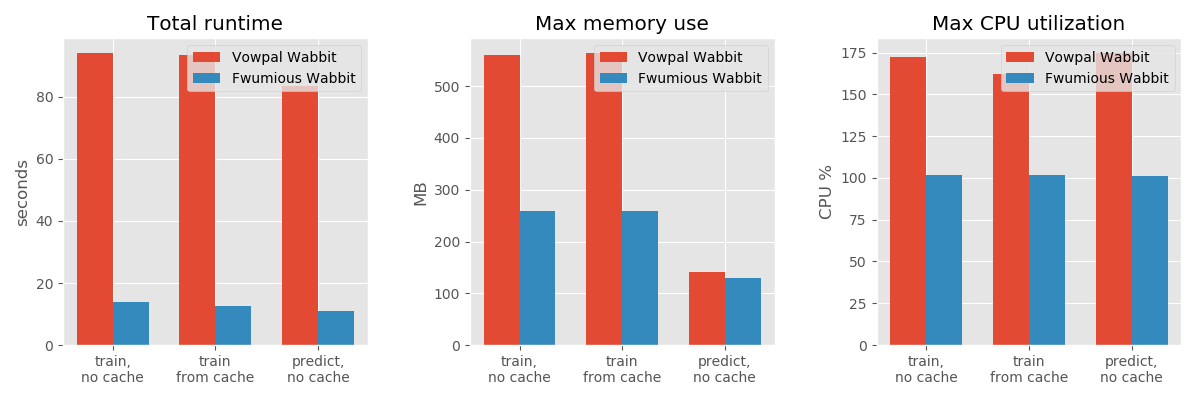
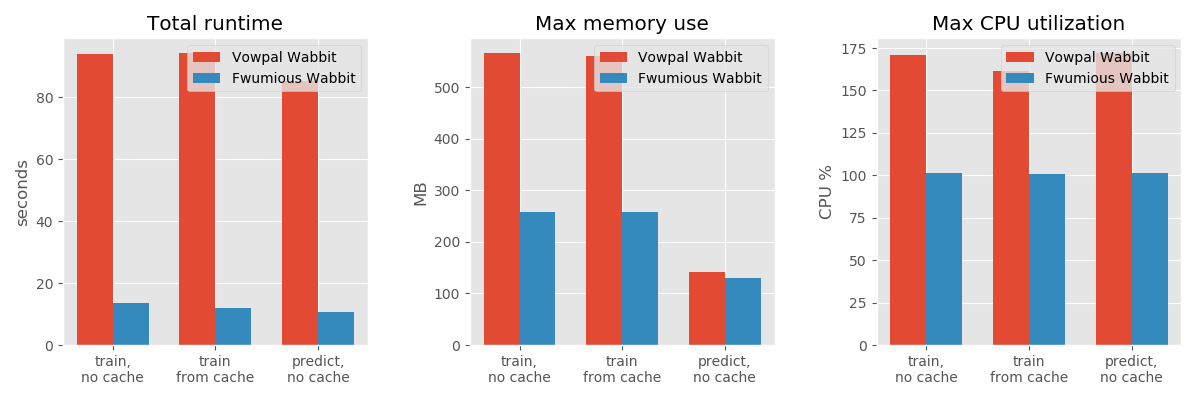
bumping version & benchmark info

diff --git a/src/version.rs b/src/version.rs
@@ -1,1 +1,1 @@
-pub static LATEST: &str = "0.5";
+pub static LATEST: &str = "0.6";

diff --git a/BENCHMARK.md b/BENCHMARK.md
@@ -14,12 +14,12 @@ here are the results for 3 runs for each scenario, taking mean values:
 ![benchmark results](benchmark_results.png)
 Scenario|Runtime (seconds)|Memory (MB)|CPU %
 ----|----:|----:|----:
-vw train, no cache|94.15 | 560 | 172.27
-fw train, no cache|13.75 | 258 | 101.47
-vw train, using cache|93.64 | 564 | 161.97
-fw train, using cache|12.59 | 258 | 101.93
-vw predict, no cache|83.57 | 141 | 174.77
-fw predict, no cache|10.92 | 130 | 100.93
+vw train, no cache|94.09 | 566 | 171.00
+fw train, no cache|13.58 | 258 | 101.47
+vw train, using cache|94.33 | 561 | 161.30
+fw train, using cache|12.07 | 258 | 100.83
+vw predict, no cache|85.30 | 141 | 172.10
+fw predict, no cache|10.69 | 130 | 101.50
 
 ### Model equivalence
 loss values for the test set:
@@ -82,7 +82,7 @@ or, if you just want the numbers with less dependencies run:
 ### versions:
 ```
 vowpal wabbit 8.8.1 (git commit: 0318d2795)
-fwumious wabbit 0.5 (git commit: 1e2675e)
+fwumious wabbit 0.6 (git commit: a91d4cf)
 ```
 
 ### CPU Info
